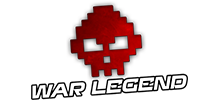
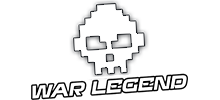
Add quersus partner

Changed region(s): [[0.3, 0.0, 0.6818, 0.81]]

diff --git a/public/tpl/partials/partners.html b/public/tpl/partials/partners.html
@@ -1,8 +1,8 @@
 <div class="partners">
     <a href="http://www.goclecd.fr/?boblegob" target="_blank" class="partner"><img src="img/partners/goclecd.png" alt="Go Cle CD" /></a>
-    <a href="http://jeu.video/" target="_blank" class="partner"><img src="img/partners/jeuvideo.png" alt="Jeu.Video" /></a>
+    <a href="http://www.quersus.com/fr/" target="_blank" class="partner"><img src="img/partners/quersus.png" alt="Quersus" /></a>
     <a href="http://www.dailymotion.com/" target="_blank" class="partner"><img src="img/partners/dailymotion.png" alt="Dailymotion" /></a>
     <a href="https://shop.gunnars.fr/fra?acc=b4d168b48157c623fbd095b4a565b5bb&___store=fra" target="_blank" class="partner white"><img src="img/partners/gunnar.png" alt="Gunnar" /></a>
     <a href="http://www.stealth-gamer.com/fr/" target="_blank" class="partner"><img src="img/partners/stealthgamer.png" alt="Stealth Gamer" /></a>
-    <a href="http://www.warlegend.net/" target="_blank" class="partner"><img src="img/partners/warlegend2.png" alt="War Legend" /></a>
+    <a href="http://www.warlegend.net/" target="_blank" class="partner"><img src="img/partners/warlegend.png" alt="War Legend" /></a>
 </div>

diff --git a/public/index.html b/public/index.html
@@ -17,7 +17,7 @@
     <link rel="icon" href="favicon.ico">
     <link rel="stylesheet" href="bower_components/angularjs-datepicker/dist/angular-datepicker.min.css">
     <link rel="stylesheet" href="bower_components/normalize-css/normalize.css">
-    <link rel="stylesheet" href="css/styles.css?v1.4.0">
+    <link rel="stylesheet" href="css/styles.css?v1.4.1">
 
     <script src="bower_components/angular/angular.min.js"></script>
     <script src="bower_components/angular-route/angular-route.min.js"></script>
@@ -42,7 +42,7 @@
     </div>
 </div>
 
-<script src="js/app.js?v1.4.0"></script>
+<script src="js/app.js?v1.4.1"></script>
 
 <script>
     (function(i,s,o,g,r,a,m){i['GoogleAnalyticsObject']=r;i[r]=i[r]||function(){

diff --git a/README.md b/README.md
@@ -6,6 +6,9 @@ Site public http://wearebobtv.com/
 ...
  
 ## Changelog
+### V1.4.1
+- Fix login
+- Partenaire Quersus
 ### V1.4.0
 - Programme par heure
 ### V1.3.0
